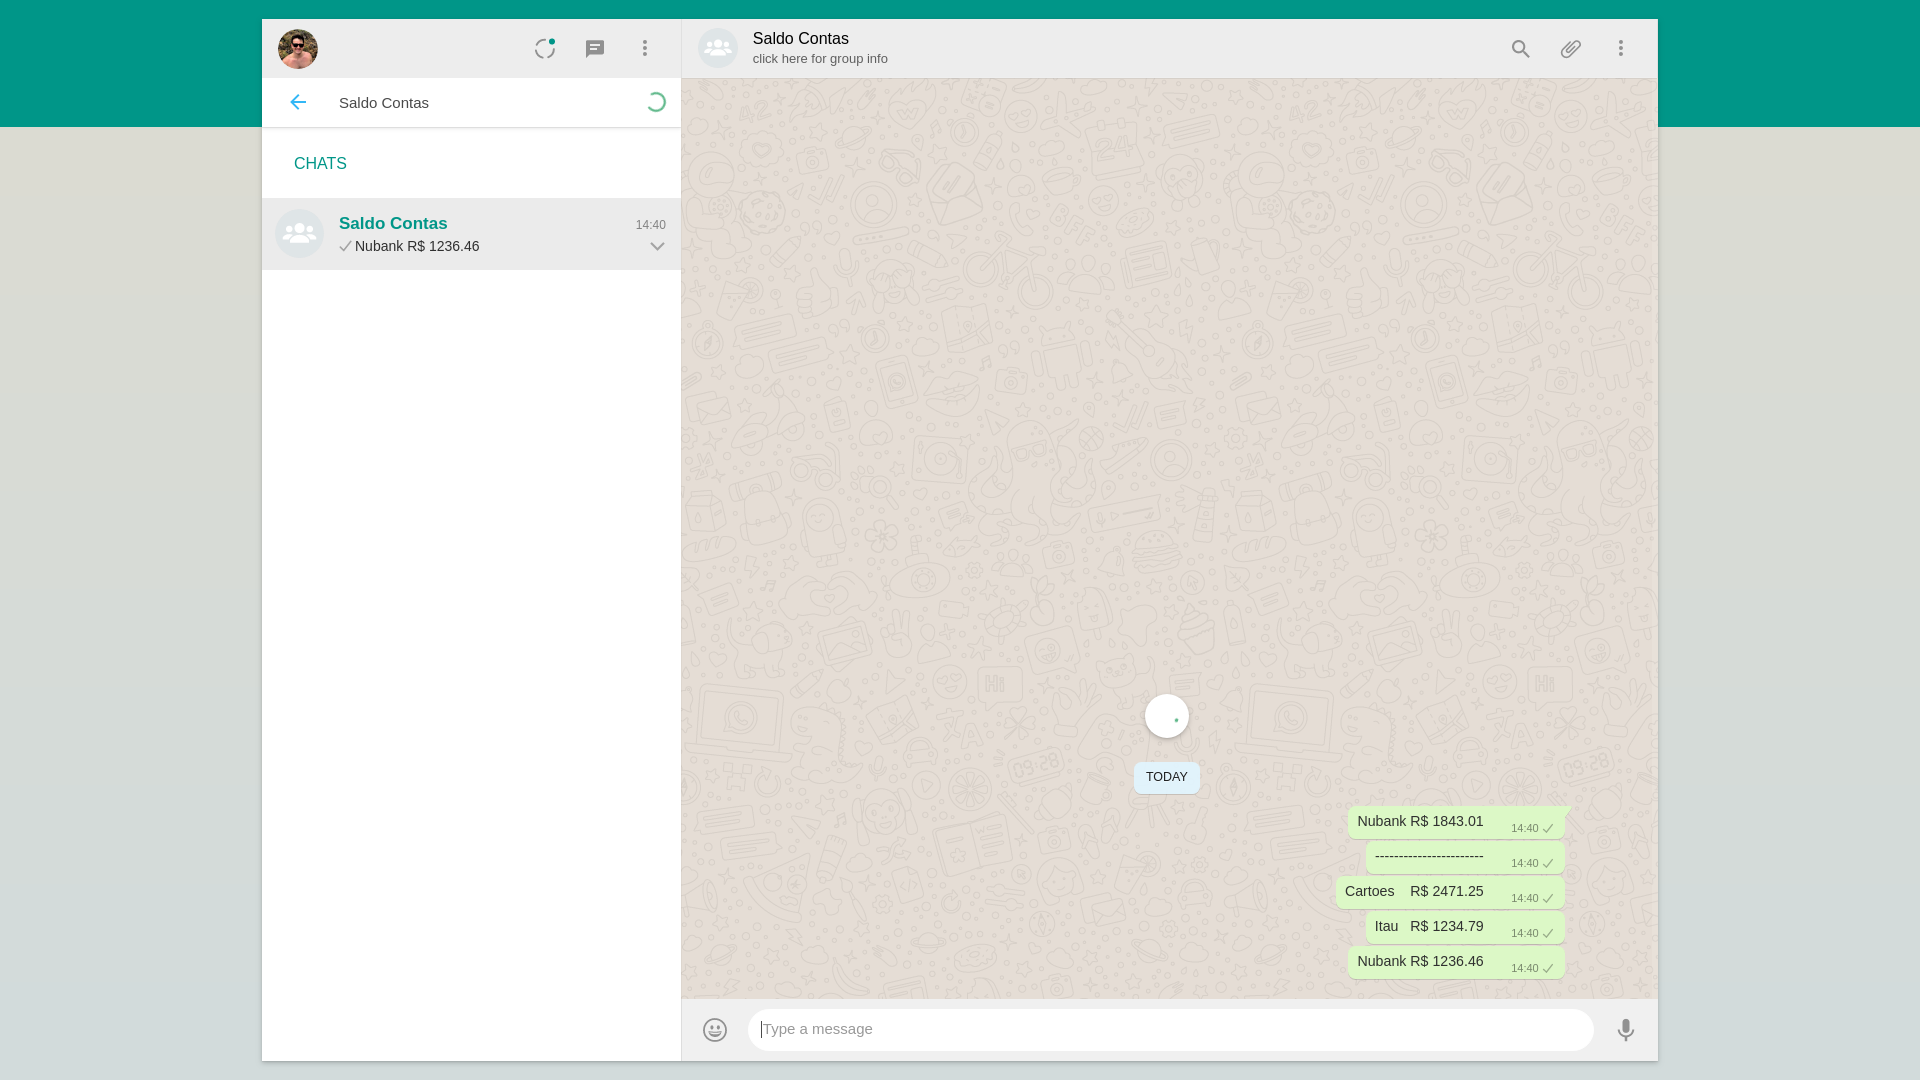
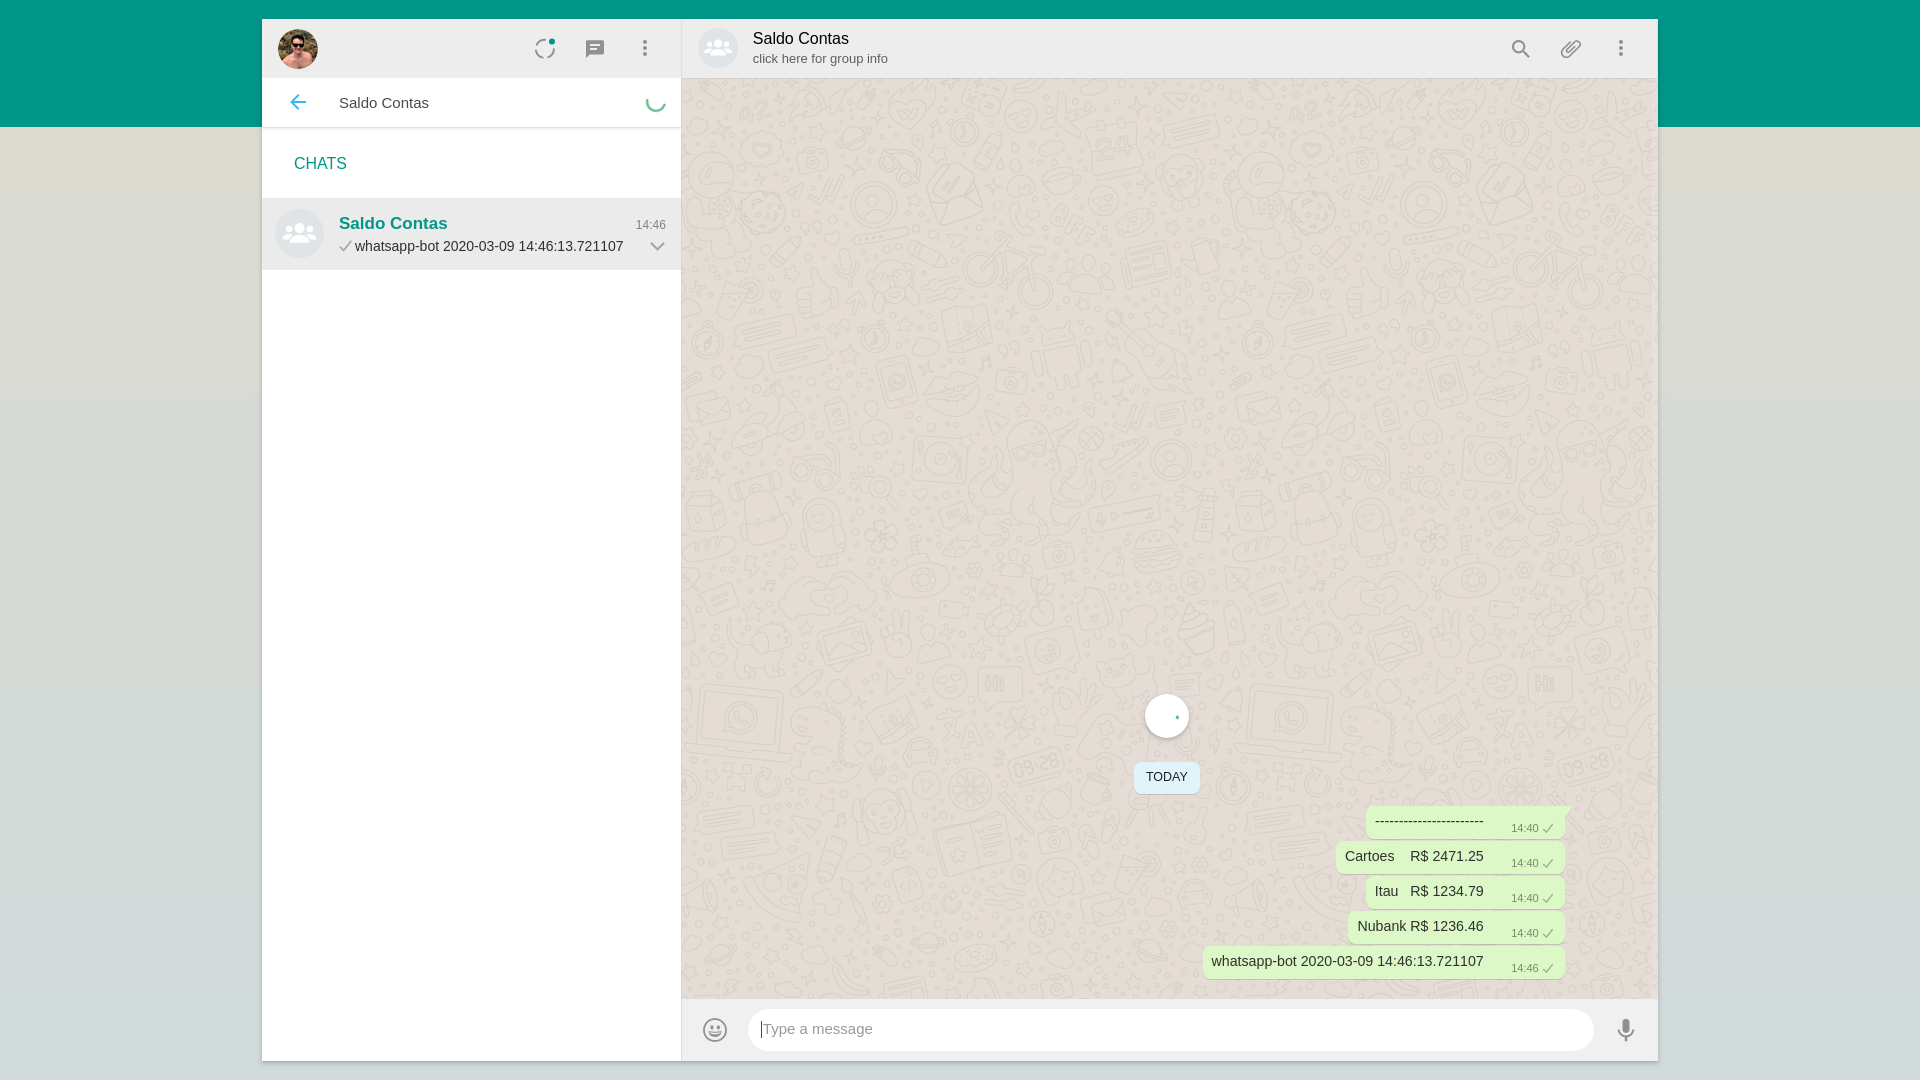
Start split Whatsapp class in methods

Changed region(s): [[0.625, 0.7333, 0.7812, 0.9167], [0.1875, 0.2139, 0.3125, 0.2444]]

diff --git a/whatspy/main.py b/whatspy/main.py
@@ -7,48 +7,53 @@ from whatspy.chrome import Chrome
 
 class Whatsapp:
     
-    @staticmethod
-    def send(message, to):
-        
-        selectors = {
+    def __init__(self):
+        self.selectors = {
             'qrcode': 'canvas',
             'search_input':  '#side .copyable-text.selectable-text',
-            'search_result': '#side span[title="{}"]'.format(to),
+            'search_result': '#side span[title="{}"]',
             'message_input': '#main footer div.copyable-text.selectable-text',
             'message_send':  '#main footer button span[data-icon="send"]'
         }
         
-        chrome = Chrome()
-        chrome.get('http://web.whatsapp.com')
+        self.chrome = Chrome()
+        self.chrome.get('http://web.whatsapp.com')
+        
+        
+    def _check_valid_qrcode(self):
+        # Not logged in
+        small_timeout = 5
+        while not self.chrome.element_exists_at(self.selectors['search_input'], timeout=small_timeout):
+            qrcode = self.chrome.wait_for(self.selectors['qrcode'], timeout=small_timeout)
+            self.chrome.screenshot('qrcode.png')
+            
+            print('Look for whatsapp QRCode inside your running directory.')
+            sleep(small_timeout)
+        
+        print('Whatsapp successfully logged in...')
+        self.chrome.screenshot('screens/1.png')
+
+    def _search_for_chat(self, to):
+        self.chrome.wait_for(self.selectors['search_input']).send_keys(to)
+        self.chrome.wait_for(self.selectors['search_result'].format(to)).click()
+        self.chrome.screenshot('screens/2.png')
+    
+    def _type_message(self, message):
+        self.chrome.wait_for(self.selectors['message_input']).send_keys(message + '\n')
+        # self.chrome.wait_for(selectors['message_send']).click()  # replaced by '\n' on previous line
+        self.chrome.screenshot('screens/3.png')
+    
+    def send(self, message, to):
         
         try:
-        
-            # Not logged in
-            small_timeout = 5
-            while not chrome.element_exists_at(selectors['search_input'], timeout=small_timeout):
-                qrcode = chrome.wait_for(selectors['qrcode'], timeout=small_timeout)
-                chrome.screenshot('qrcode.png')
-                
-                print('Look for whatsapp QRCode inside your running directory.')
-                sleep(small_timeout)
+            self._check_valid_qrcode()
+            self._search_for_chat(to)
+            self._type_message(message)
             
-            print('Whatsapp successfully logged in...')
-            
-            chrome.screenshot('screens/1.png')
-            
-            chrome.wait_for(selectors['search_input']).send_keys(to)
-            chrome.wait_for(selectors['search_result']).click()
-            
-            chrome.screenshot('screens/2.png')
-            
-            chrome.wait_for(selectors['message_input']).send_keys(message + '\n')
-            # chrome.wait_for(selectors['message_send']).click()  # replaced by '\n' on previous line
-            
-            chrome.screenshot('screens/3.png')
         except Exception as e:
             print('An unexpected error occured. Quiting chrome now')
-            chrome.screenshot('screens/error.png')
-            chrome.quit()
+            self.chrome.screenshot('screens/error.png')
+            self.chrome.quit()
             
             raise e
 
@@ -56,5 +61,6 @@ if __name__ == '__main__':
     message = 'whatsapp-bot ' + str(datetime.now())
     to = 'Saldo Contas'
     
-    Whatsapp.send(message, to)
+    whats = Whatsapp()
+    whats.send(message, to)
     

diff --git a/setup.py b/setup.py
@@ -5,7 +5,7 @@ with open("README.md", "r") as fh:
     
 setuptools.setup(
     name = 'WhatsPy',  
-    version = '0.0.1',
+    version = '0.0.2',
     scripts = [
         'whatspy.sh'
     ],
